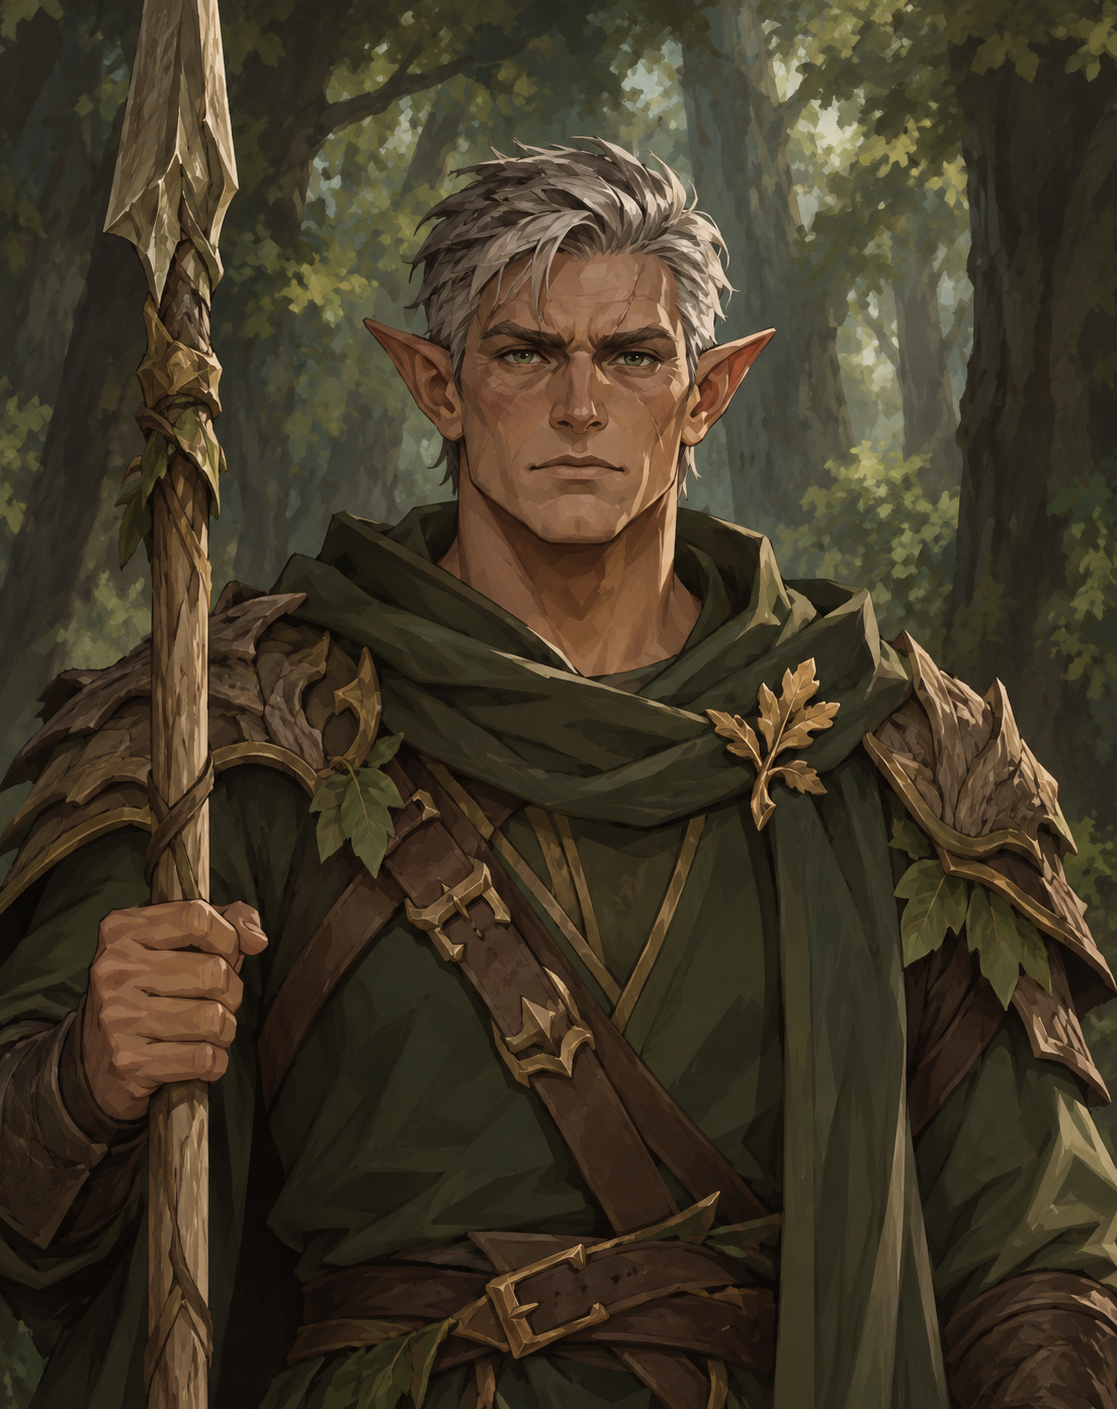
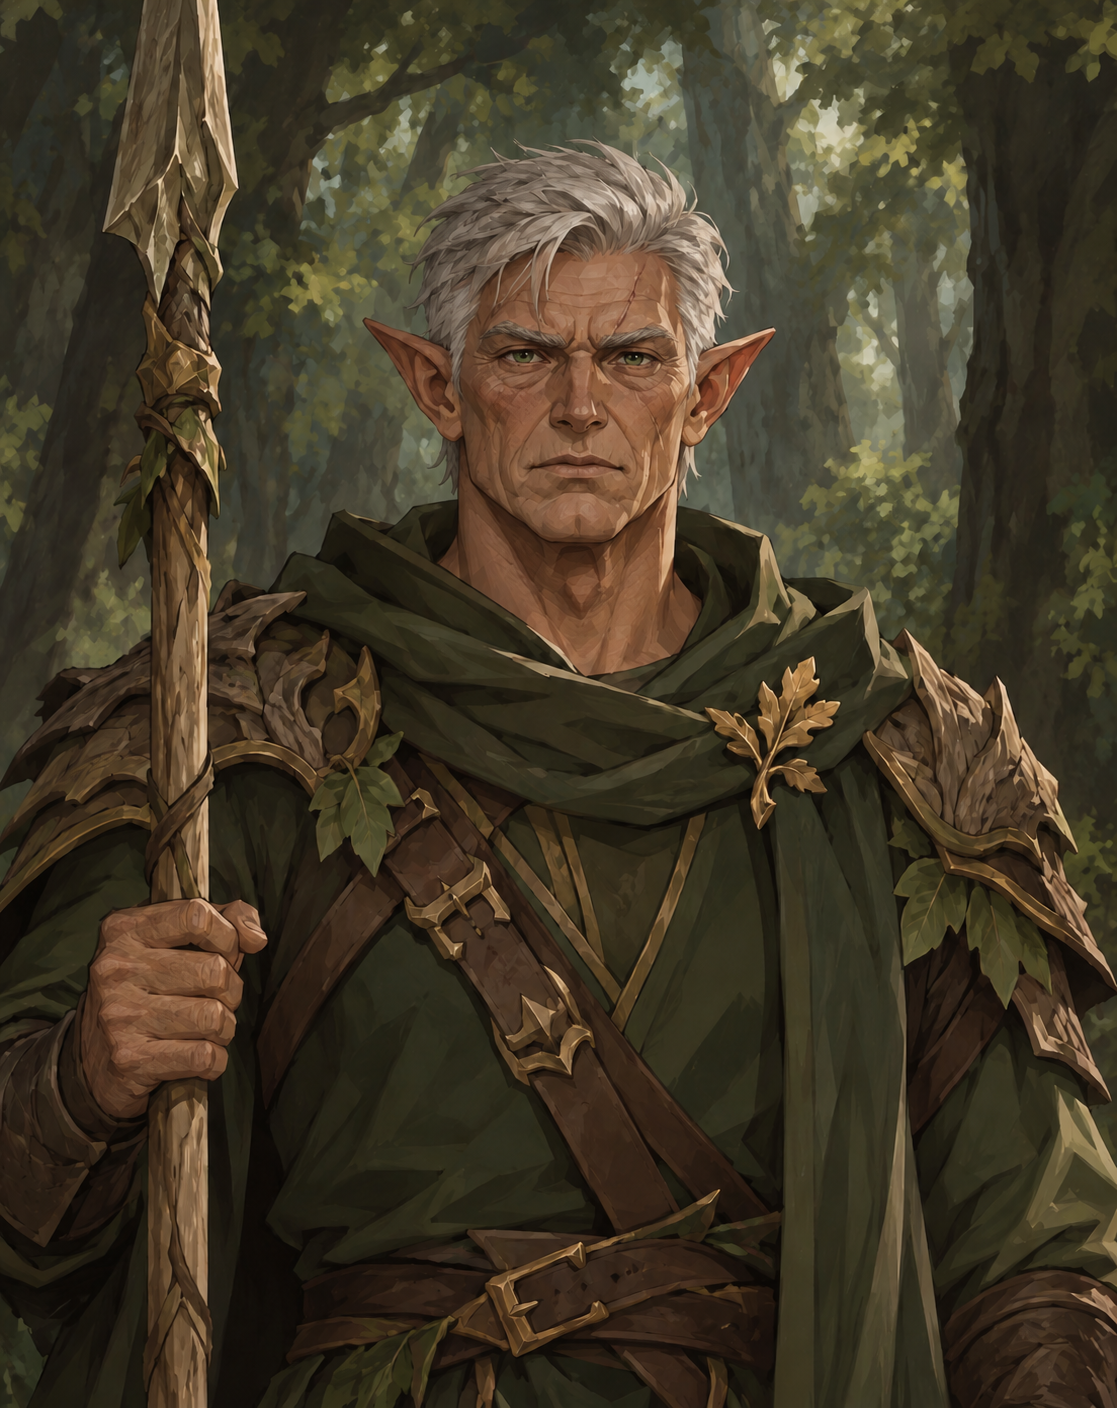
Age Grove druid portraits without changing sheets or tokens

diff --git a/ART_PROMPTS_GROVE.md b/ART_PROMPTS_GROVE.md
@@ -41,3 +41,21 @@ Create one circular VTT token from this exact Siana portrait, preserving face, f
 ## ral-kann / token
 
 Create ONE circular VTT token from this exact Ral'Kann portrait. Preserve mature elf face, iron-gray short hair, pointed ears, strong direct expression, straight aligned head and broad shoulders, green cloak and bark armor, original angular painted style. No redesign. Crop head and upper shoulders, face large and clear. Thin sturdy aged bronze circular frame with a small oak leaf over simple shield shape at bottom. Restrained dark green interior. Genuine transparent alpha outside ring; full token inside square canvas with margin, no text or extra decorations.
+
+## 4.7.1 — возрастные портреты
+Встроенный imagegen, редактирование прежних портретов.
+
+### saris-faelorn
+Use case: identity-preserve. Edit target: the supplied existing druid portrait. Change ONLY apparent age of face, hair and visible hands: male elf Saris, visibly elderly, silver-gray hair retaining slate-blue undertones and tied hairstyle, lined forehead and eyes, mature angular cheeks, cold calculating gaze. These are ancient elven druids; make them unmistakably older, roughly the visual maturity of a human 65–75, dignified and vigorous. Preserve recognizable identity, elven ears, original facial proportions, natural neck/head alignment, exact pose, framing, costume, equipment, background, lighting, colors and restrained angular painted illustration style. Keep detail level the same. Do not turn into photorealism, do not add ornaments, beard, text or new objects. Not a redesign. Single full portrait, same aspect ratio.
+
+### mirella-daenel
+Use case: identity-preserve. Edit target: the supplied existing druid portrait. Change ONLY apparent age of face, hair and visible hands: female elf Mirella, visibly elderly wise woman with clearly lined eyes and mouth, mature cheeks, white hair unchanged, calm solemn mystical expression. These are ancient elven druids; make them unmistakably older, roughly the visual maturity of a human 65–75, dignified and vigorous. Preserve recognizable identity, elven ears, original facial proportions, natural neck/head alignment, exact pose, framing, costume, equipment, background, lighting, colors and restrained angular painted illustration style. Keep detail level the same. Do not turn into photorealism, do not add ornaments, beard, text or new objects. Not a redesign. Single full portrait, same aspect ratio.
+
+### korven-lael
+Use case: identity-preserve. Edit target: the supplied existing druid portrait. Change ONLY apparent age of face, hair and visible hands: male elf Korven, visibly elderly seasoned scout, salt-and-pepper gray-brown hair, weathered lined face, pronounced crow's feet, alert reserved gaze. These are ancient elven druids; make them unmistakably older, roughly the visual maturity of a human 65–75, dignified and vigorous. Preserve recognizable identity, elven ears, original facial proportions, natural neck/head alignment, exact pose, framing, costume, equipment, background, lighting, colors and restrained angular painted illustration style. Keep detail level the same. Do not turn into photorealism, do not add ornaments, beard, text or new objects. Not a redesign. Single full portrait, same aspect ratio.
+
+### siana-illior
+Use case: identity-preserve. Edit target: the supplied existing druid portrait. Change ONLY apparent age of face, hair and visible hands: female elf Siana, visibly elderly kindly woman, gray-silver streaks throughout her auburn braid, warm smile with smile lines and crow's feet, mature cheeks, freckles retained. These are ancient elven druids; make them unmistakably older, roughly the visual maturity of a human 65–75, dignified and vigorous. Preserve recognizable identity, elven ears, original facial proportions, natural neck/head alignment, exact pose, framing, costume, equipment, background, lighting, colors and restrained angular painted illustration style. Keep detail level the same. Do not turn into photorealism, do not add ornaments, beard, text or new objects. Not a redesign. Single full portrait, same aspect ratio.
+
+### ral-kann
+Use case: identity-preserve. Edit target: the supplied existing druid portrait. Change ONLY apparent age of face, hair and visible hands: male elf Ral'Kann, visibly elderly veteran, fully silver-gray short hair, stronger age lines and weathered skin, existing scar retained, stern resolute expression. These are ancient elven druids; make them unmistakably older, roughly the visual maturity of a human 65–75, dignified and vigorous. Preserve recognizable identity, elven ears, original facial proportions, natural neck/head alignment, exact pose, framing, costume, equipment, background, lighting, colors and restrained angular painted illustration style. Keep detail level the same. Do not turn into photorealism, do not add ornaments, beard, text or new objects. Not a redesign. Single full portrait, same aspect ratio.

diff --git a/RELEASE_NOTES.md b/RELEASE_NOTES.md
@@ -1,9 +1,3 @@
-# 4.7.0 — Круг Рощи
+# 4.7.1 — Возрастные портреты друидов
 
-Пять друидов Круга Рощи 16-го уровня: Сарис, Мирелла, Корвен, Сиана и Рал’Канн. Отдельные арты, прозрачные токены и короткие листы с 5–6 выбранными заклинаниями. Лаэрин не дублируется. [Краткие листы](GROVE_COUNCIL.md).
-
-В библиотеке «Мир Ортес → Ключевые персонажи → Круг Рощи». Имена и черты соответствуют заметкам Суйгу; способности — краткие авторские адаптации. 5 артов и 5 токенов с тематическими ободками.
-
-Сохранено исправление имён 4.6.1: титулы убраны из имён и подписей токенов; стандартные прежние имена обновляются при входе ведущего.
-
-Проверено: 201 тест, восемь компендиумов, пути ассетов и встроенные документы. Полный ручной прогон в Foundry V14 не выполнен.
+Обновлены только пять портретов Круга Рощи: седина и возрастные черты при сохранении одежды, поз и стиля. Токены, листы и способности не изменены.

diff --git a/CHANGELOG.md b/CHANGELOG.md
@@ -1,3 +1,7 @@
+# 4.7.1 — Возрастные портреты друидов
+
+Обновлены только пять портретов Круга Рощи: седина и возрастные черты при сохранении одежды, поз и стиля. Токены, листы и способности не изменены.
+
 # 4.7.0
 
 Пять друидов Круга Рощи 16-го уровня: Сарис, Мирелла, Корвен, Сиана и Рал’Канн. Отдельные арты, прозрачные токены и короткие листы с 5–6 выбранными заклинаниями. Лаэрин не дублируется. [Краткие листы](GROVE_COUNCIL.md).
